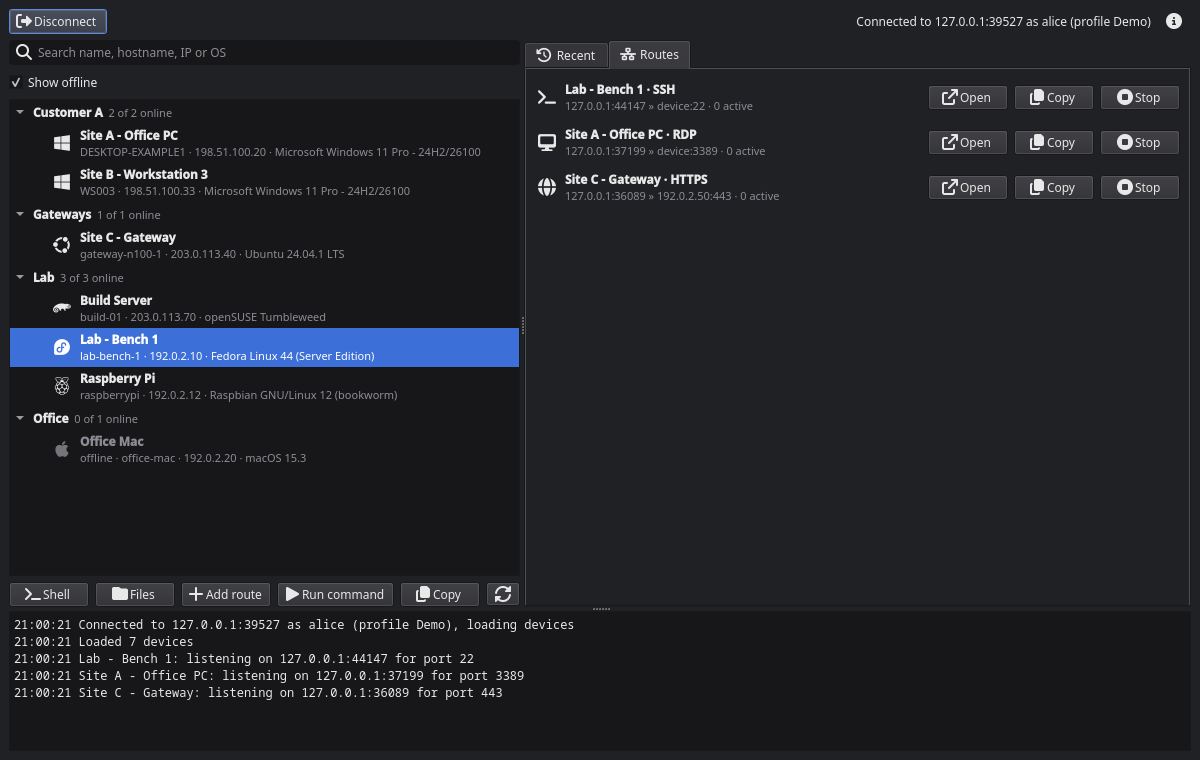
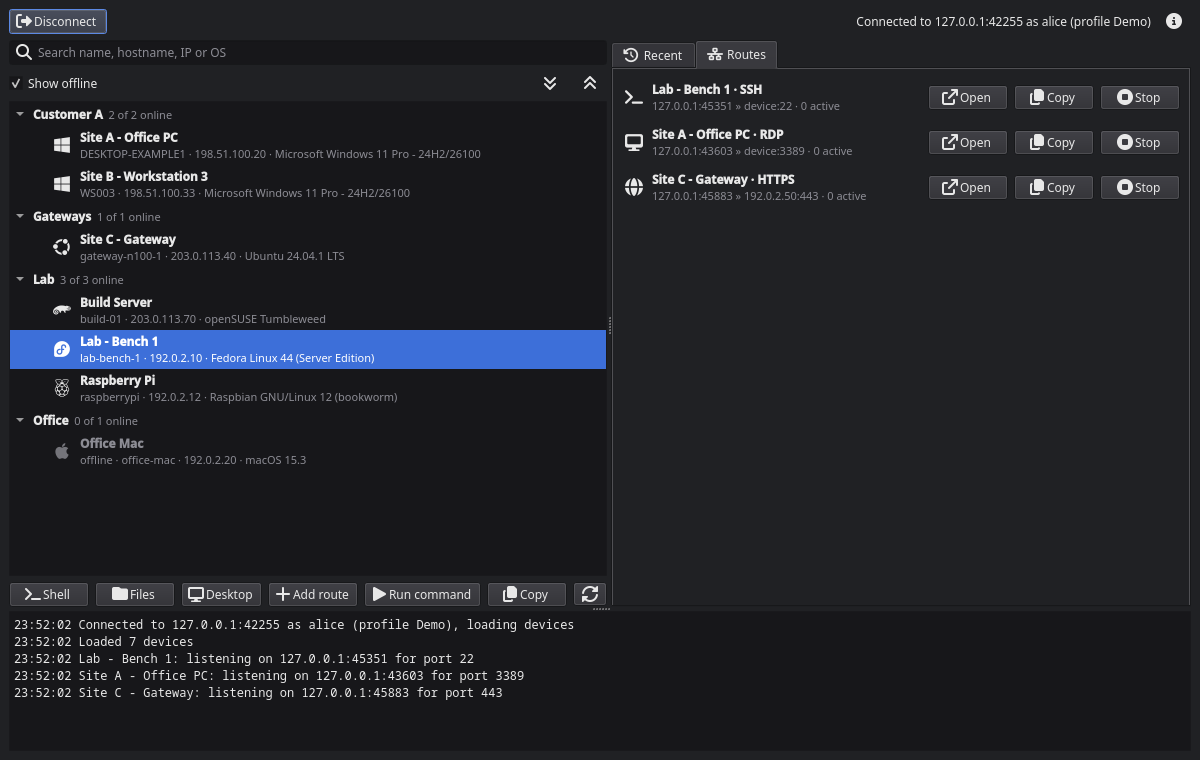
GUI: Documented notes and expand/collapse all and refreshed the main screenshot

diff --git a/readme.md b/readme.md
@@ -34,6 +34,8 @@ go build -o mcc
 
 **Desktop** opens the device's screen with mouse and keyboard control, display selection, image quality, and fit or actual-size viewing. The clipboard toggle enables automatic bidirectional text sync while that tab and the client window are active; it starts off in each tab, and turning it on sends the local text to the device. Images and files are not transferred. **Type clipboard** remains available for typing text as keystrokes. The fullscreen button (Ctrl+Alt+Enter) hides the client panels and keeps the Desktop toolbar visible; use it again to restore the client. Esc still goes to the remote device. Clipboard support depends on the agent and remote desktop session; some agents do not report an empty remote clipboard.
 
+Right-click a device or group for **Notes**, the free-text notes MeshCentral keeps for it and shows in the web UI. Device notes can be read by anyone who sees the device and edited with the *Edit notes* right; group notes need the *Edit group* right for both. The server silently ignores requests without the right, so the dialog says when it got no answer or a change wasn't kept. The buttons beside **Show offline** expand or collapse every group in the device list.
+
 Devices and port routes, connected to the local dummy server with fictional data:
 
 <picture>
@@ -64,7 +66,7 @@ make gui-shots    # Start a dummy server and capture both themes in dist/shots
 make gui-readme-shots # Regenerate the README images in docs/screenshots
 ```
 
-Screenshot generation runs offscreen on Linux using the GUI test binary and `tools/guibench`'s local dummy server. It uses temporary preferences and a mock keyring, exercises login, device queries, a shell relay and a files channel, and waits for the device list, terminal output and file listing before saving PNGs. No real MeshCentral account, credentials, or desktop session is needed. The images show fictional devices and documentation IP addresses; local server and route ports are assigned automatically.
+Screenshot generation runs offscreen on Linux using the GUI test binary and `tools/guibench`'s local dummy server. It uses temporary preferences and a mock keyring, exercises login, device queries, notes, a shell relay and a files channel, and waits for the device list, terminal output and file listing before saving PNGs. No real MeshCentral account, credentials, or desktop session is needed. The images show fictional devices and documentation IP addresses; local server and route ports are assigned automatically.
 
 Cross-platform builds use Podman images in `mcc-gui/package`. Images are built on first use; Windows resource generation uses `go-winres`, pinned in `tools.mod`.
 
